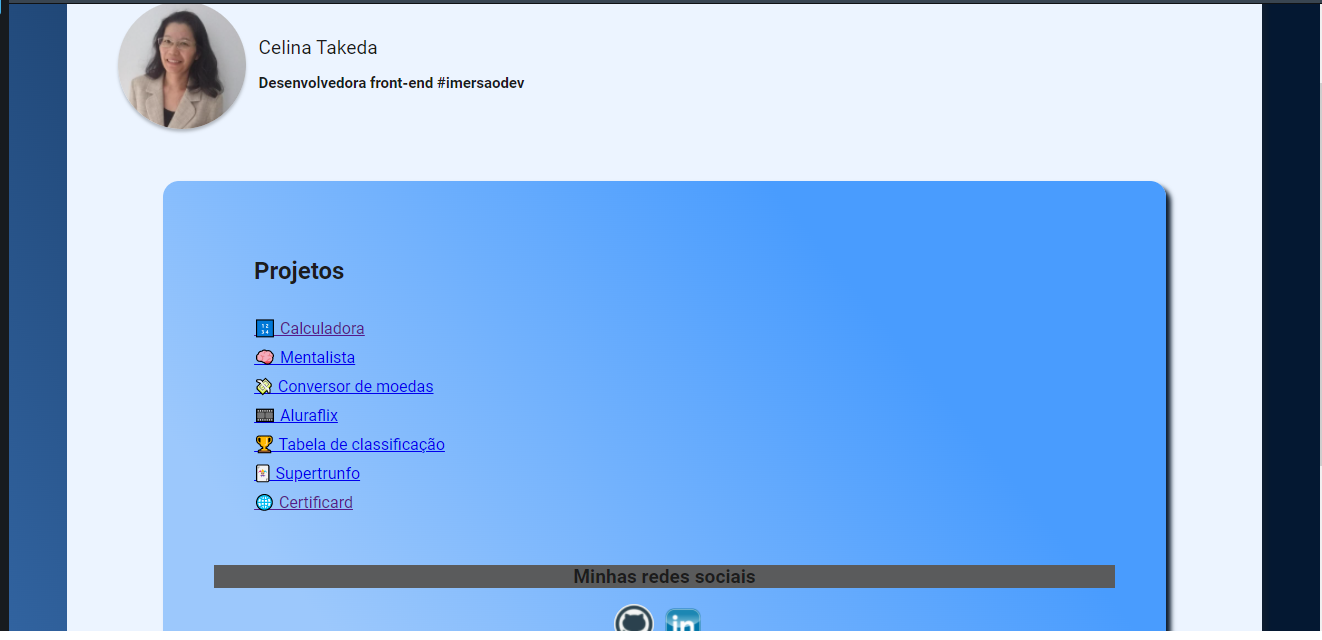
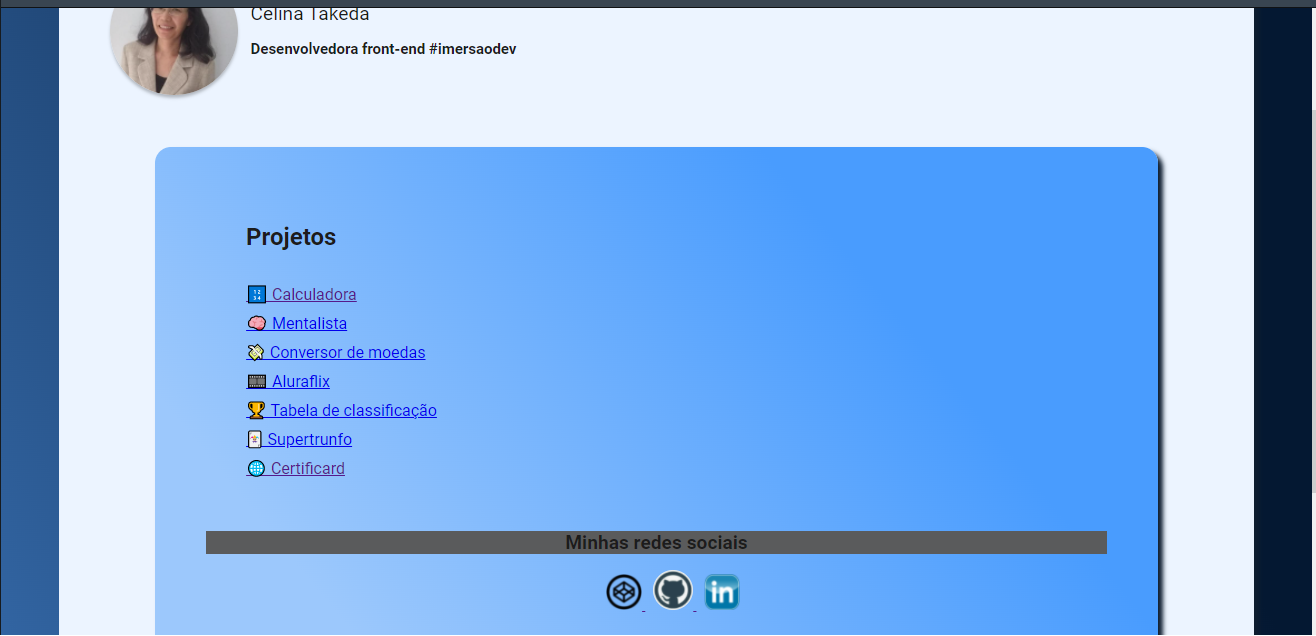
commit

Changed region(s): [[0.0, 0.0, 1.0, 1.0], [0.1869, 0.3585, 0.3427, 0.8066], [0.9347, 0.9858, 0.997, 1.0]]

diff --git a/aula09/index.html b/aula09/index.html
@@ -32,12 +32,16 @@
                 </div>
                 <div container-sociais>
                     <h2>Minhas redes sociais</h2>
+                    <a href="https://codepen.io/celina17">
+                        <img class="codepen" src="https://th.bing.com/th/id/R.66cb057019a70f2991b05265a6d6b6dc?rik=I54pNcTuHnfaKA&riu=http%3a%2f%2fcdn.embed.ly%2fproviders%2flogos%2fcodepen.png&ehk=jXG38O31AmIEbseGWB9PmJpn0gt05Q%2b8yHmMXRr5Ebs%3d&risl=&pid=ImgRaw&r=0" alt="">
+                    </a>
                     <a  href="https://github.com/celinatakeda">
                         <img class="github" src="https://img2.gratispng.com/20180326/eye/kisspng-github-computer-icons-logo-github-5ab8a338143da0.8375508315220498480829.jpg" alt="" >
                     </a>
                     <a href="https://www.linkedin.com/in/celina-takeda-605136206/">
                         <img class="linkedin" src="https://pluspng.com/img-png/linkedin-png-linkedin-icon-image-31474-1218.png" alt="">
                     </a>
+                   
                 </div>               
             </div>   
         </main>

diff --git a/aula09/style.css b/aula09/style.css
@@ -89,7 +89,7 @@ h2 {
 
 .github {
     max-width: 50px;  
-    margin-left: 500px;
+    margin-left: 10px;
     border-radius: 50%;   
 }
 
@@ -98,5 +98,8 @@ h2 {
     margin-left: 10px;   
 }
 
-
+.codepen {
+    max-width: 45px;
+    margin-left: 500px;   
+}
 
